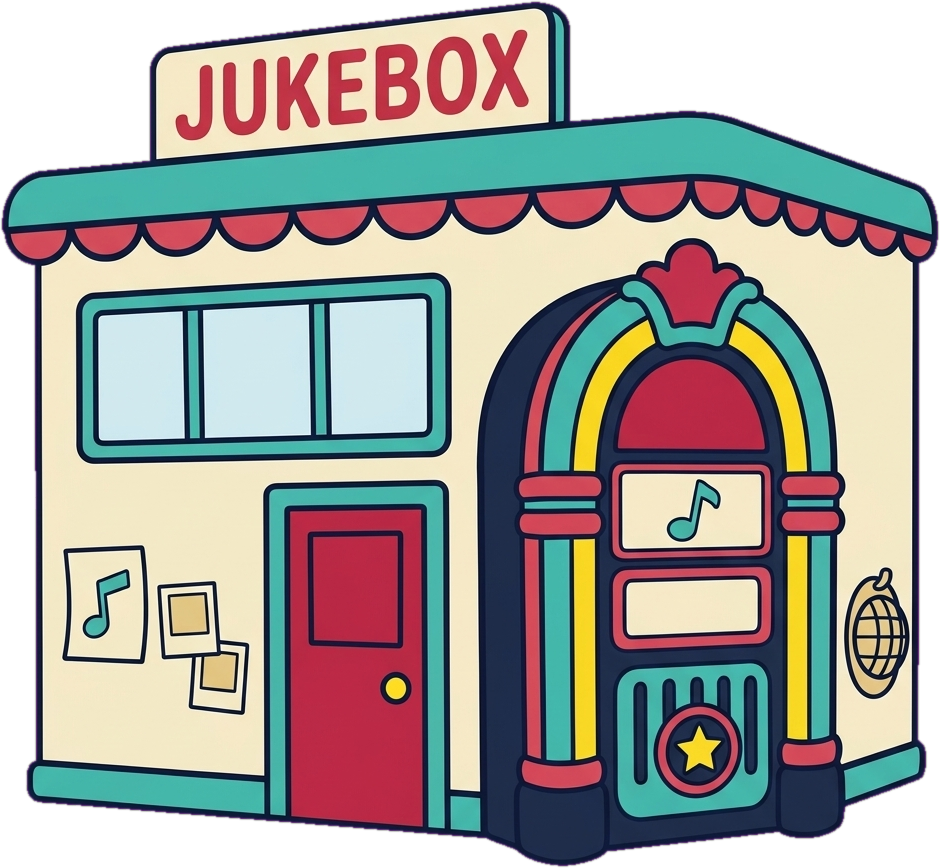
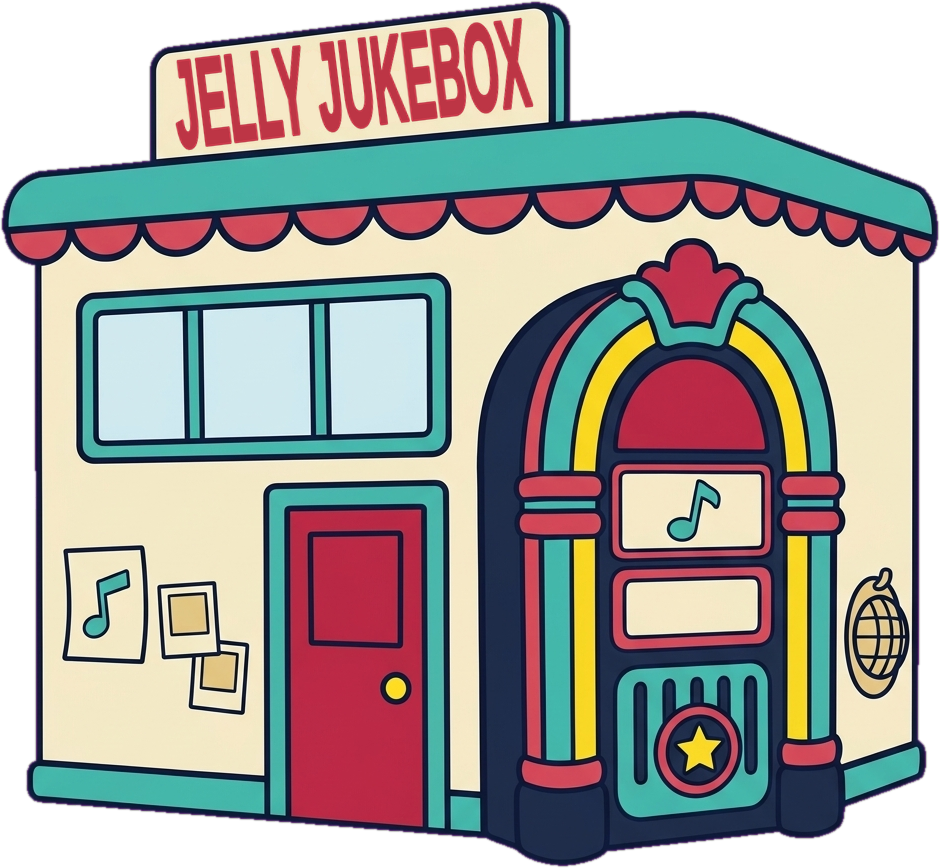
## Campus de-cluttered (screenshot-verified) - Name pills under every building and the street-name chips (Jelly Jam Boulevard / Music 101 Lane / Studio Row) are gone; only the big "PLAY STREET" title remains. - Jukebox sign now reads **JELLY JUKEBOX** in the same tall red lettering — the rest of the
Emergent-Commit-Key: 2f1723dd6c013889802d0afa1dfcc475197efac4e727d21c61f084edf5de39cc

Changed region(s): [[0.1851, 0.0, 0.5862, 0.1866]]

diff --git a/frontend/src/pages/CampusMapPage.js b/frontend/src/pages/CampusMapPage.js
@@ -83,6 +83,7 @@ function Building({ b, index, locked, onEnter, shout, L, entering }) {
       data-testid={`campus-building-${b.id}`}
       data-locked={locked ? 'true' : 'false'}
       aria-disabled={locked}
+      aria-label={b.name}
       onClick={handle}
       className={`absolute bottom-0 flex flex-col items-center bg-transparent border-0 p-0 touch-manipulation ${locked ? 'cursor-not-allowed' : 'cursor-pointer'}`}
       style={{ left: L.left + index * L.slot, width: Math.round(L.bw * b.size * scale), marginBottom: L.floor + lift * L.lift, zIndex: 10 - (index % 3) }}
@@ -110,9 +111,6 @@ function Building({ b, index, locked, onEnter, shout, L, entering }) {
           </span>
         )}
       </motion.div>
-      <span className="mt-1 rounded-full px-2.5 py-0.5 text-[10px] md:text-xs font-black font-display text-center leading-tight" style={{ background: 'white', color: 'var(--jma-dark)', border: '2px solid var(--jma-dark)', boxShadow: '0 2px 0 0 var(--jma-dark)', opacity: locked ? 0.7 : 1 }}>
-        {b.name}
-      </span>
     </motion.button>
   );
 }
@@ -214,10 +212,6 @@ export default function CampusMapPage() {
       <BlimpFlyby />
       <GameHeader title={`${zone.label} STREET`} showHomeButton={true} backTo="/home" />
 
-      {/* street name under the header title */}
-      {!short && <div className="absolute inset-x-0 top-14 md:top-[72px] z-20 flex justify-center pointer-events-none">
-        <div className="rounded-full px-3 py-0.5 text-[10px] md:text-xs font-black" style={{ background: zone.color, color: 'var(--jma-dark)', border: '2px solid var(--jma-dark)', boxShadow: '0 2px 0 0 var(--jma-dark)' }}>{zone.street}</div>
-      </div>}
 
       {/* the user's fish — every sprite faces the way it swims */}
       <div className="absolute inset-0 pointer-events-none" style={{ zIndex: 3 }} data-testid="campus-fish">

diff --git a/memory/PRD.md b/memory/PRD.md
@@ -1,5 +1,9 @@
 # Jelly of the Month Club Music Academy (JMA) — PRD
 
+## Jun 2026: Campus de-clutter
+- Removed building name pills (buttons keep `aria-label={b.name}`) and the street-name chip ("Jelly Jam Boulevard" etc.). Lock chips remain.
+- `assets/campus/jukebox-diner.png` sign now reads JELLY JUKEBOX (PIL edit: red text erased to cream, re-rendered Liberation Sans Narrow Bold stretched tall + rotated 7°). Original saved at `/app/memory/jukebox-diner.orig.png`.
+
 ## Jun 2026: Back button fix (phone / typed URLs)
 - `/play`, `/learn`, `/create` now `<Navigate replace>` to `/campus?zone=…` (old Play/Learn/CreateMenuPage routes removed from App.js; files still exist but unused).
 - Campus header uses `backTo="/home"` so Back always goes Home regardless of history.
